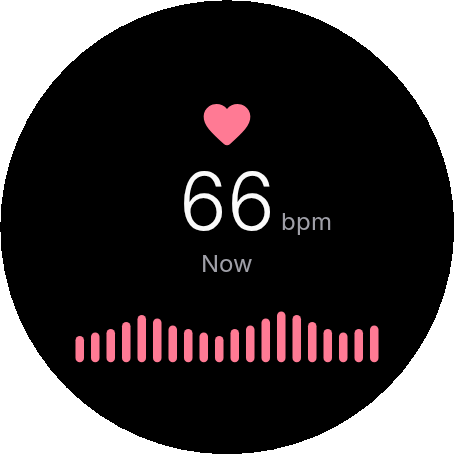
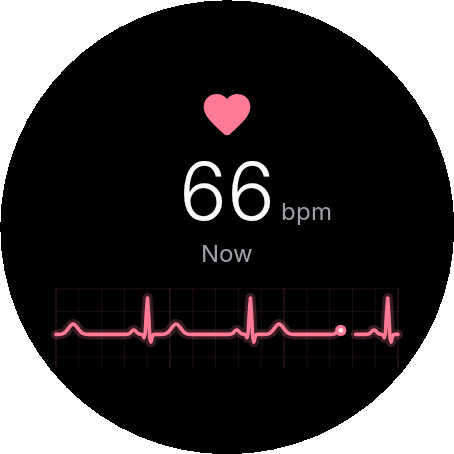
Watch: body composition no longer stalls or flickers; stress result shows on time; monitor-style heart rate
Body composition:
- The progress ticker ran on a timer whether or not the fingers were on the keys. The ring
  reached "1 sec" and sat there, and every tick cleared the "keep both fingers on the keys" hint,
  so the text flickered.
- Now a contact problem pauses the ring and stays on screen until contact is back. The watch's
  own BIA progress drives the ring when it reports one, and resets when fingers are lifted.
- After a timeout (4x the nominal time) the measurement ends with the hint instead of waiting
  forever.
- Each BIA status and progress is logged, so the device statuses can be checked.
- SpO2's "hold still" uses the same sticky hint.

Stress: the ~10 s skin-conductance (EDA) reading ran after the minute, so "1 sec" stayed on
screen for about 10 s. It now runs during the last 12 s of the minute, and the result never
waits more than 1.5 s for it. At 98 % the screen says "Almost done…".

Heart rate: the 1-minute bar trend is replaced by a bedside-monitor sweep. One P-QRS-T complex
per beat is paced by the live rate, on ECG paper. It is a drawn beat marker; the wrist sensor is
optical, and the real ECG stays in the ECG measurement.

Changed region(s): [[0.0925, 0.6476, 0.8943, 0.8018], [0.4009, 0.3392, 0.7401, 0.6167], [0.4317, 0.185, 0.5551, 0.3392]]

diff --git a/wear/src/main/kotlin/com/heartline/wear/sensor/sdk/SdkQuickSources.kt b/wear/src/main/kotlin/com/heartline/wear/sensor/sdk/SdkQuickSources.kt
@@ -30,6 +30,11 @@ import kotlinx.coroutines.withTimeout
 /**
  * Shared plumbing for on-demand SDK trackers: connect, check capability, attach a listener,
  * run a progress ticker, and translate each batch of DataPoints with [onData].
+ *
+ * While [problem] is set (fingers off the keys, wrist contact…) the ticker pauses and keeps
+ * showing that hint, so the screen neither counts down without a signal nor flickers between
+ * "Measuring" and the hint. When the tracker reports its own progress ([sdkProgress]), that
+ * drives the ring. Without a result after [timeoutSeconds], the measurement ends with the hint.
  */
 abstract class SdkQuickSource(
     private val gateway: SdkSensorGateway,
@@ -37,23 +42,37 @@ abstract class SdkQuickSource(
     override val metric: Metric,
     override val kind: RecordKind,
     override val seconds: Int,
+    private val timeoutSeconds: Int = seconds * 4,
 ) : QuickSource {
+    @Volatile protected var problem: QuickHint? = null
+
+    @Volatile protected var sdkProgress: Float? = null
+
     protected abstract fun create(profile: UserProfile?): HealthTracker?
 
     /** @return true when the measurement has finished (result or failure sent). */
     protected abstract fun ProducerScope<QuickEvent>.onData(points: List<DataPoint>): Boolean
 
     override fun measure(profile: UserProfile?): Flow<QuickEvent> = callbackFlow {
+        problem = null
+        sdkProgress = null
         gateway.connect()
         val state = withTimeout(10_000) { gateway.state.first { it is GatewayState.Connected || it is GatewayState.Failed } }
         if (state is GatewayState.Failed) throw SensorException(state.problem)
         if (tracker !in (state as GatewayState.Connected).trackers) throw SensorException(SensorProblem.NOT_SUPPORTED)
         val healthTracker = create(profile) ?: throw SensorException(SensorProblem.NOT_SUPPORTED)
         val ticker = launch {
-            for (i in 1..seconds * 4) {
+            var good = 0
+            for (tick in 1..timeoutSeconds * 4) {
                 delay(250)
-                trySend(QuickEvent.Progress((i / (seconds * 4f)).coerceAtMost(0.98f)))
+                val hint = problem
+                if (hint == null) good++
+                val fraction = sdkProgress ?: (good / (seconds * 4f))
+                trySend(QuickEvent.Progress(fraction.coerceIn(0f, 0.98f), hint))
             }
+            Log.w(SdkSensorGateway.TAG, "$tracker: no result after $timeoutSeconds s (hint=$problem)")
+            trySend(QuickEvent.Failed(null, problem ?: QuickHint.LOW_SIGNAL))
+            close()
         }
         healthTracker.setEventListener(
             object : HealthTracker.TrackerEventListener {
@@ -92,10 +111,11 @@ class SdkSpo2Source(private val gateway: SdkSensorGateway) :
                 true
             }
             -4 -> {
-                trySendBlocking(QuickEvent.Progress(0f, QuickHint.HOLD_STILL))
+                problem = QuickHint.HOLD_STILL
                 false
             }
             0 -> {
+                problem = null
                 // Still calculating: the heart rate is already known, show it live.
                 p.getValue(ValueKey.SpO2Set.HEART_RATE)?.takeIf { it > 0 }?.let { trySendBlocking(QuickEvent.Live(it)) }
                 false
@@ -150,10 +170,13 @@ class SdkBiaSource(private val gateway: SdkSensorGateway) :
 
     override fun ProducerScope<QuickEvent>.onData(points: List<DataPoint>): Boolean {
         val p = points.last()
+        val status = p.getValue(ValueKey.BiaSet.STATUS)
         val progress = p.getValue(ValueKey.BiaSet.PROGRESS)
-        return when (p.getValue(ValueKey.BiaSet.STATUS)) {
+        Log.i(SdkSensorGateway.TAG, "BIA status=$status progress=$progress")
+        return when (status) {
             0 -> if (progress != null && progress < 100f) {
-                trySendBlocking(QuickEvent.Progress(progress / 100f))
+                problem = null
+                sdkProgress = progress / 100f
                 false
             } else {
                 trySendBlocking(
@@ -169,11 +192,14 @@ class SdkBiaSource(private val gateway: SdkSensorGateway) :
                 true
             }
             7, 8, 9 -> {
-                trySendBlocking(QuickEvent.Progress(0f, QuickHint.TOUCH_KEYS))
+                // Fingers off the keys: the watch restarts the measurement once they're back.
+                problem = QuickHint.TOUCH_KEYS
+                sdkProgress = 0f
                 false
             }
             else -> {
-                trySendBlocking(QuickEvent.Progress(0f, QuickHint.WRIST_CONTACT))
+                problem = QuickHint.WRIST_CONTACT
+                sdkProgress = 0f
                 false
             }
         }

diff --git a/wear/src/main/kotlin/com/heartline/wear/ui/components/HeartMonitor.kt b/wear/src/main/kotlin/com/heartline/wear/ui/components/HeartMonitor.kt
@@ -1,0 +1,96 @@
+package com.heartline.wear.ui.components
+
+import androidx.compose.runtime.Composable
+import androidx.compose.runtime.LaunchedEffect
+import androidx.compose.runtime.getValue
+import androidx.compose.runtime.mutableLongStateOf
+import androidx.compose.runtime.remember
+import androidx.compose.runtime.rememberUpdatedState
+import androidx.compose.runtime.setValue
+import androidx.compose.runtime.withFrameNanos
+import androidx.compose.ui.Modifier
+import androidx.compose.ui.graphics.Color
+import kotlin.math.exp
+
+/**
+ * Bedside-monitor view of the live heart rate: a sweeping trace with one complex per heartbeat,
+ * paced by the measured rate. The wrist sensor measures the pulse optically (no electrical
+ * signal), so the complex is a drawn beat marker, not a recorded ECG; the real ECG is the ECG
+ * measurement.
+ */
+@Composable
+fun HeartMonitor(bpm: Int?, color: Color, modifier: Modifier = Modifier, animate: Boolean = true) {
+    val rate by rememberUpdatedState(bpm)
+    val buffer = remember { MonitorBuffer(WINDOW) }
+    var written by remember { mutableLongStateOf(if (animate) 0L else buffer.prefill(bpm ?: 66)) }
+    if (animate) {
+        LaunchedEffect(Unit) {
+            var last = 0L
+            while (true) {
+                withFrameNanos { now ->
+                    if (last == 0L) last = now
+                    val due = ((now - last) / NANOS_PER_SAMPLE).toInt()
+                    if (due > 0) {
+                        last += due * NANOS_PER_SAMPLE
+                        repeat(due.coerceAtMost(WINDOW)) { buffer.next(rate) }
+                        written = buffer.count
+                    }
+                }
+            }
+        }
+    }
+    SweepTrace(
+        samples = buffer.snapshot(written),
+        endIndex = written,
+        windowSamples = WINDOW,
+        color = color,
+        modifier = modifier,
+        minRange = 1f,
+    )
+}
+
+private const val RATE_HZ = 100
+private const val WINDOW = 3 * RATE_HZ
+private const val NANOS_PER_SAMPLE = 1_000_000_000L / RATE_HZ
+
+/** Generates the trace sample by sample: a new complex starts every 60/bpm seconds. */
+private class MonitorBuffer(private val size: Int) {
+    private val ring = FloatArray(size)
+    var count = 0L
+        private set
+    private var sinceBeat = 0
+
+    fun next(bpm: Int?) {
+        val period = bpm?.takeIf { it in 25..240 }?.let { RATE_HZ * 60 / it }
+        val value = if (period == null) {
+            sinceBeat = 0
+            0f
+        } else {
+            if (sinceBeat >= period) sinceBeat = 0
+            complex(sinceBeat++ / RATE_HZ.toFloat())
+        }
+        ring[(count % size).toInt()] = value
+        count++
+    }
+
+    fun prefill(bpm: Int): Long {
+        repeat(size * 2 - size / 6) { next(bpm) }
+        return count
+    }
+
+    /** The last window, oldest first. */
+    fun snapshot(end: Long): FloatArray {
+        val n = minOf(end, size.toLong()).toInt()
+        return FloatArray(n) { i -> ring[((end - n + i) % size).toInt()] }
+    }
+}
+
+/** A clean P-QRS-T shape (in mV-like units) [t] seconds after the beat starts. */
+private fun complex(t: Float): Float {
+    fun bump(centre: Float, width: Float, height: Float) = height * exp(-((t - centre) * (t - centre)) / (2 * width * width))
+    return bump(0.08f, 0.022f, 0.12f) +
+        bump(0.175f, 0.008f, -0.12f) +
+        bump(0.20f, 0.010f, 1.0f) +
+        bump(0.225f, 0.010f, -0.25f) +
+        bump(0.45f, 0.040f, 0.28f)
+}

diff --git a/wear/src/main/kotlin/com/heartline/wear/ui/screens/HeartRateScreen.kt b/wear/src/main/kotlin/com/heartline/wear/ui/screens/HeartRateScreen.kt
@@ -1,37 +1,30 @@
 package com.heartline.wear.ui.screens
 
 import com.heartline.wear.ui.components.CenteredValue
-import androidx.compose.foundation.Canvas
 import androidx.compose.foundation.background
 import androidx.compose.foundation.layout.Arrangement
 import androidx.compose.foundation.layout.Box
 import androidx.compose.foundation.layout.Column
-import androidx.compose.foundation.layout.Row
 import androidx.compose.foundation.layout.fillMaxSize
 import androidx.compose.foundation.layout.fillMaxWidth
 import androidx.compose.foundation.layout.height
 import androidx.compose.foundation.layout.padding
-import androidx.compose.foundation.layout.size
-import androidx.compose.material.icons.Icons
-import androidx.compose.material.icons.rounded.Favorite
 import androidx.compose.runtime.Composable
 import androidx.compose.ui.Alignment
 import androidx.compose.ui.Modifier
-import androidx.compose.ui.geometry.Offset
-import androidx.compose.ui.graphics.StrokeCap
 import androidx.compose.ui.res.stringResource
 import androidx.compose.ui.text.style.TextAlign
 import androidx.compose.ui.unit.dp
-import androidx.wear.compose.material3.Icon
 import androidx.wear.compose.material3.MaterialTheme
 import androidx.wear.compose.material3.Text
 import com.heartline.wear.R
 import com.heartline.wear.ui.components.BeatingHeart
+import com.heartline.wear.ui.components.HeartMonitor
 import com.heartline.wear.ui.theme.WearColors
 
-/** Live heart rate with a heart beating at that rate and the last minute as a bar trend (Samsung Health style). */
+/** Live heart rate with a heart beating at that rate over a bedside-monitor style sweep. */
 @Composable
-fun HeartRateScreen(bpm: Int?, recent: List<Int>, onBody: Boolean, animate: Boolean = true) {
+fun HeartRateScreen(bpm: Int?, onBody: Boolean, animate: Boolean = true) {
     val color = WearColors.metric(com.heartline.shared.model.Metric.HEART_RATE)
     Box(Modifier.fillMaxSize().background(WearColors.background), contentAlignment = Alignment.Center) {
         Column(
@@ -55,17 +48,8 @@ fun HeartRateScreen(bpm: Int?, recent: List<Int>, onBody: Boolean, animate: Bool
                     Text(stringResource(R.string.hr_now), style = MaterialTheme.typography.bodySmall, color = WearColors.onSurfaceVariant)
                 }
             }
-            if (recent.size >= 2) {
-                val min = (recent.min() - 5).toFloat()
-                val max = (recent.max() + 5).toFloat()
-                Canvas(Modifier.fillMaxWidth().padding(top = 10.dp, start = 8.dp, end = 8.dp).height(30.dp)) {
-                    val step = size.width / recent.size
-                    recent.forEachIndexed { i, v ->
-                        val h = (v - min) / (max - min) * size.height
-                        val x = i * step + step / 2
-                        drawLine(color, Offset(x, size.height), Offset(x, size.height - h), strokeWidth = step * 0.55f, cap = StrokeCap.Round)
-                    }
-                }
+            if (onBody) {
+                HeartMonitor(bpm, color, Modifier.fillMaxWidth().padding(top = 10.dp).height(40.dp), animate)
             }
         }
     }

diff --git a/wear/src/main/kotlin/com/heartline/wear/sensor/QuickSources.kt b/wear/src/main/kotlin/com/heartline/wear/sensor/QuickSources.kt
@@ -10,6 +10,7 @@ import kotlinx.coroutines.delay
 import kotlinx.coroutines.flow.Flow
 import android.util.Log
 import kotlinx.coroutines.flow.channelFlow
+import kotlinx.coroutines.async
 import kotlinx.coroutines.launch
 import kotlinx.coroutines.withTimeoutOrNull
 import kotlinx.coroutines.flow.flow
@@ -56,6 +57,12 @@ class StressSource(
     override val kind = RecordKind.STRESS
 
     override fun measure(profile: UserProfile?): Flow<QuickEvent> = channelFlow {
+        // Skin conductance takes ~10 s: read it during the last seconds of the minute, not after,
+        // so the result shows the moment the minute ends.
+        val eda = async {
+            delay(tickMs * (seconds - EDA_LEAD_SECONDS).coerceAtLeast(0))
+            runCatching { skinConductance() }.getOrNull()
+        }
         val ibis = mutableListOf<Int>()
         var samples = 0
         var offBody = false
@@ -73,6 +80,7 @@ class StressSource(
             if (second == noDataSeconds && samples == 0) {
                 log("no heart-rate data after $noDataSeconds s")
                 reader.cancel()
+                eda.cancel()
                 send(QuickEvent.Failed(null, QuickHint.LOW_SIGNAL))
                 return@channelFlow
             }
@@ -80,12 +88,12 @@ class StressSource(
         }
         reader.cancel()
         val hrv = Hrv.compute(ibis)
+        val skin = withTimeoutOrNull(EDA_GRACE_MS) { eda.await() }.also { eda.cancel() }
         log("done: samples=$samples ibis=${ibis.size} clean=${Hrv.clean(ibis).size} rmssd=${hrv?.rmssdMs}")
         if (hrv == null) {
             send(QuickEvent.Failed(null, QuickHint.LOW_SIGNAL))
         } else {
-            val eda = withTimeoutOrNull(EDA_TIMEOUT_MS) { skinConductance() }
-            send(QuickEvent.Result(RecordSummary.Stress(StressIndex.score(hrv.rmssdMs, eda), hrv.rmssdMs, eda)))
+            send(QuickEvent.Result(RecordSummary.Stress(StressIndex.score(hrv.rmssdMs, skin), hrv.rmssdMs, skin)))
         }
     }
 
@@ -95,7 +103,10 @@ class StressSource(
 
     private companion object {
         const val TAG = "Heartline/Stress"
-        const val EDA_TIMEOUT_MS = 15_000L
+        const val EDA_LEAD_SECONDS = 12
+
+        /** At most this much extra wait for the skin reading once the minute is over. */
+        const val EDA_GRACE_MS = 1_500L
     }
 }
 

diff --git a/wear/src/test/kotlin/com/heartline/wear/QuickMeasureTest.kt b/wear/src/test/kotlin/com/heartline/wear/QuickMeasureTest.kt
@@ -117,4 +117,28 @@ class QuickMeasureTest {
         val done = withTimeout(5_000) { vm.state.first { it is QuickState.Done } } as QuickState.Done
         assertTrue((done.summary as RecordSummary.Stress).rmssdMs!! > 0)
     }
+
+    @Test
+    fun skinReadingIsTakenDuringTheMinuteSoTheResultIsImmediate() = runBlocking {
+        val hr = FakeHrSource(bpm = 70.0, irregularity = 0.06, periodMs = 1)
+        // The skin reading takes as long as the last 12 "seconds" and is ready when the minute ends.
+        val stress = StressSource(hr, skinConductance = { kotlinx.coroutines.delay(10 * 20L); 4.2f }, seconds = 60, tickMs = 20)
+        val vm = QuickMeasureViewModel(stress, profiles, store, { scheduled++ })
+        val started = System.currentTimeMillis()
+        vm.start()
+        val done = withTimeout(10_000) { vm.state.first { it is QuickState.Done } } as QuickState.Done
+        assertEquals(4.2f, (done.summary as RecordSummary.Stress).skinConductanceMicroSiemens!!, 0f)
+        // 60 ticks of 20 ms plus a little: no extra wait after the minute.
+        assertTrue(System.currentTimeMillis() - started < 60 * 20 + 1_000)
+    }
+
+    @Test
+    fun aSlowSkinReadingNeverHoldsTheResult() = runBlocking {
+        val hr = FakeHrSource(bpm = 70.0, irregularity = 0.06, periodMs = 1)
+        val stress = StressSource(hr, skinConductance = { kotlinx.coroutines.awaitCancellation() }, seconds = 60, tickMs = 10)
+        val vm = QuickMeasureViewModel(stress, profiles, store, { scheduled++ })
+        vm.start()
+        val done = withTimeout(5_000) { vm.state.first { it is QuickState.Done } } as QuickState.Done
+        assertEquals(null, (done.summary as RecordSummary.Stress).skinConductanceMicroSiemens)
+    }
 }

diff --git a/wear/src/main/kotlin/com/heartline/wear/quick/QuickMeasure.kt b/wear/src/main/kotlin/com/heartline/wear/quick/QuickMeasure.kt
@@ -93,7 +93,8 @@ class QuickMeasureViewModel(
                     when (event) {
                         is QuickEvent.Progress -> {
                             val current = mutable.value as? QuickState.Measuring
-                            val fraction = maxOf(event.fraction, current?.progress ?: 0f)
+                            // A restart (fingers lifted) may move the ring back; otherwise it only moves forward.
+                            val fraction = if (event.hint != null) event.fraction else maxOf(event.fraction, current?.progress ?: 0f)
                             mutable.value = QuickState.Measuring(
                                 fraction,
                                 ((1 - fraction) * source.seconds).toInt().coerceAtLeast(1),

diff --git a/wear/src/test/kotlin/com/heartline/wear/WearScreenshotTest.kt b/wear/src/test/kotlin/com/heartline/wear/WearScreenshotTest.kt
@@ -120,10 +120,10 @@ class WearScreenshotTest(private val size: String) {
     }
 
     @Test fun heartRate() = shot("heart_rate") {
-        HeartRateScreen(66, listOf(64, 65, 66, 68, 70, 69, 67, 66, 65, 64, 66, 67, 69, 71, 70, 68, 66, 65, 66, 67), onBody = true, animate = false)
+        HeartRateScreen(66, onBody = true, animate = false)
     }
 
-    @Test fun heartRateOffBody() = shot("heart_rate_off_body") { HeartRateScreen(null, emptyList(), onBody = false) }
+    @Test fun heartRateOffBody() = shot("heart_rate_off_body") { HeartRateScreen(null, onBody = false) }
 
     @Test fun bpInstruction() = shot("bp_instruction") { BpInstructionScreen() }
 

diff --git a/wear/src/main/kotlin/com/heartline/wear/ui/HeartlineWearApp.kt b/wear/src/main/kotlin/com/heartline/wear/ui/HeartlineWearApp.kt
@@ -277,7 +277,7 @@ private fun AppNavHost(nav: NavHostController, gate: SetupGateViewModel) {
         composable(Routes.HEART_RATE) {
             val vm: HeartRateViewModel = koinViewModel()
             val hr by vm.state.collectAsStateWithLifecycle()
-            HeartRateScreen(hr.bpm, hr.recent, hr.onBody)
+            HeartRateScreen(hr.bpm, hr.onBody)
         }
         composable(Routes.HISTORY) {
             val vm: HistoryViewModel = koinViewModel()

diff --git a/wear/src/main/kotlin/com/heartline/wear/ui/screens/QuickScreens.kt b/wear/src/main/kotlin/com/heartline/wear/ui/screens/QuickScreens.kt
@@ -131,6 +131,7 @@ fun QuickMeasuringScreen(
             Text(
                 when {
                     hint != null -> stringResource(hint.text)
+                    progress >= 0.98f -> stringResource(R.string.hint_finishing)
                     live.isNotEmpty() -> live
                     metric == Metric.STRESS -> stringResource(R.string.hint_breathe)
                     else -> stringResource(R.string.hint_measuring)
